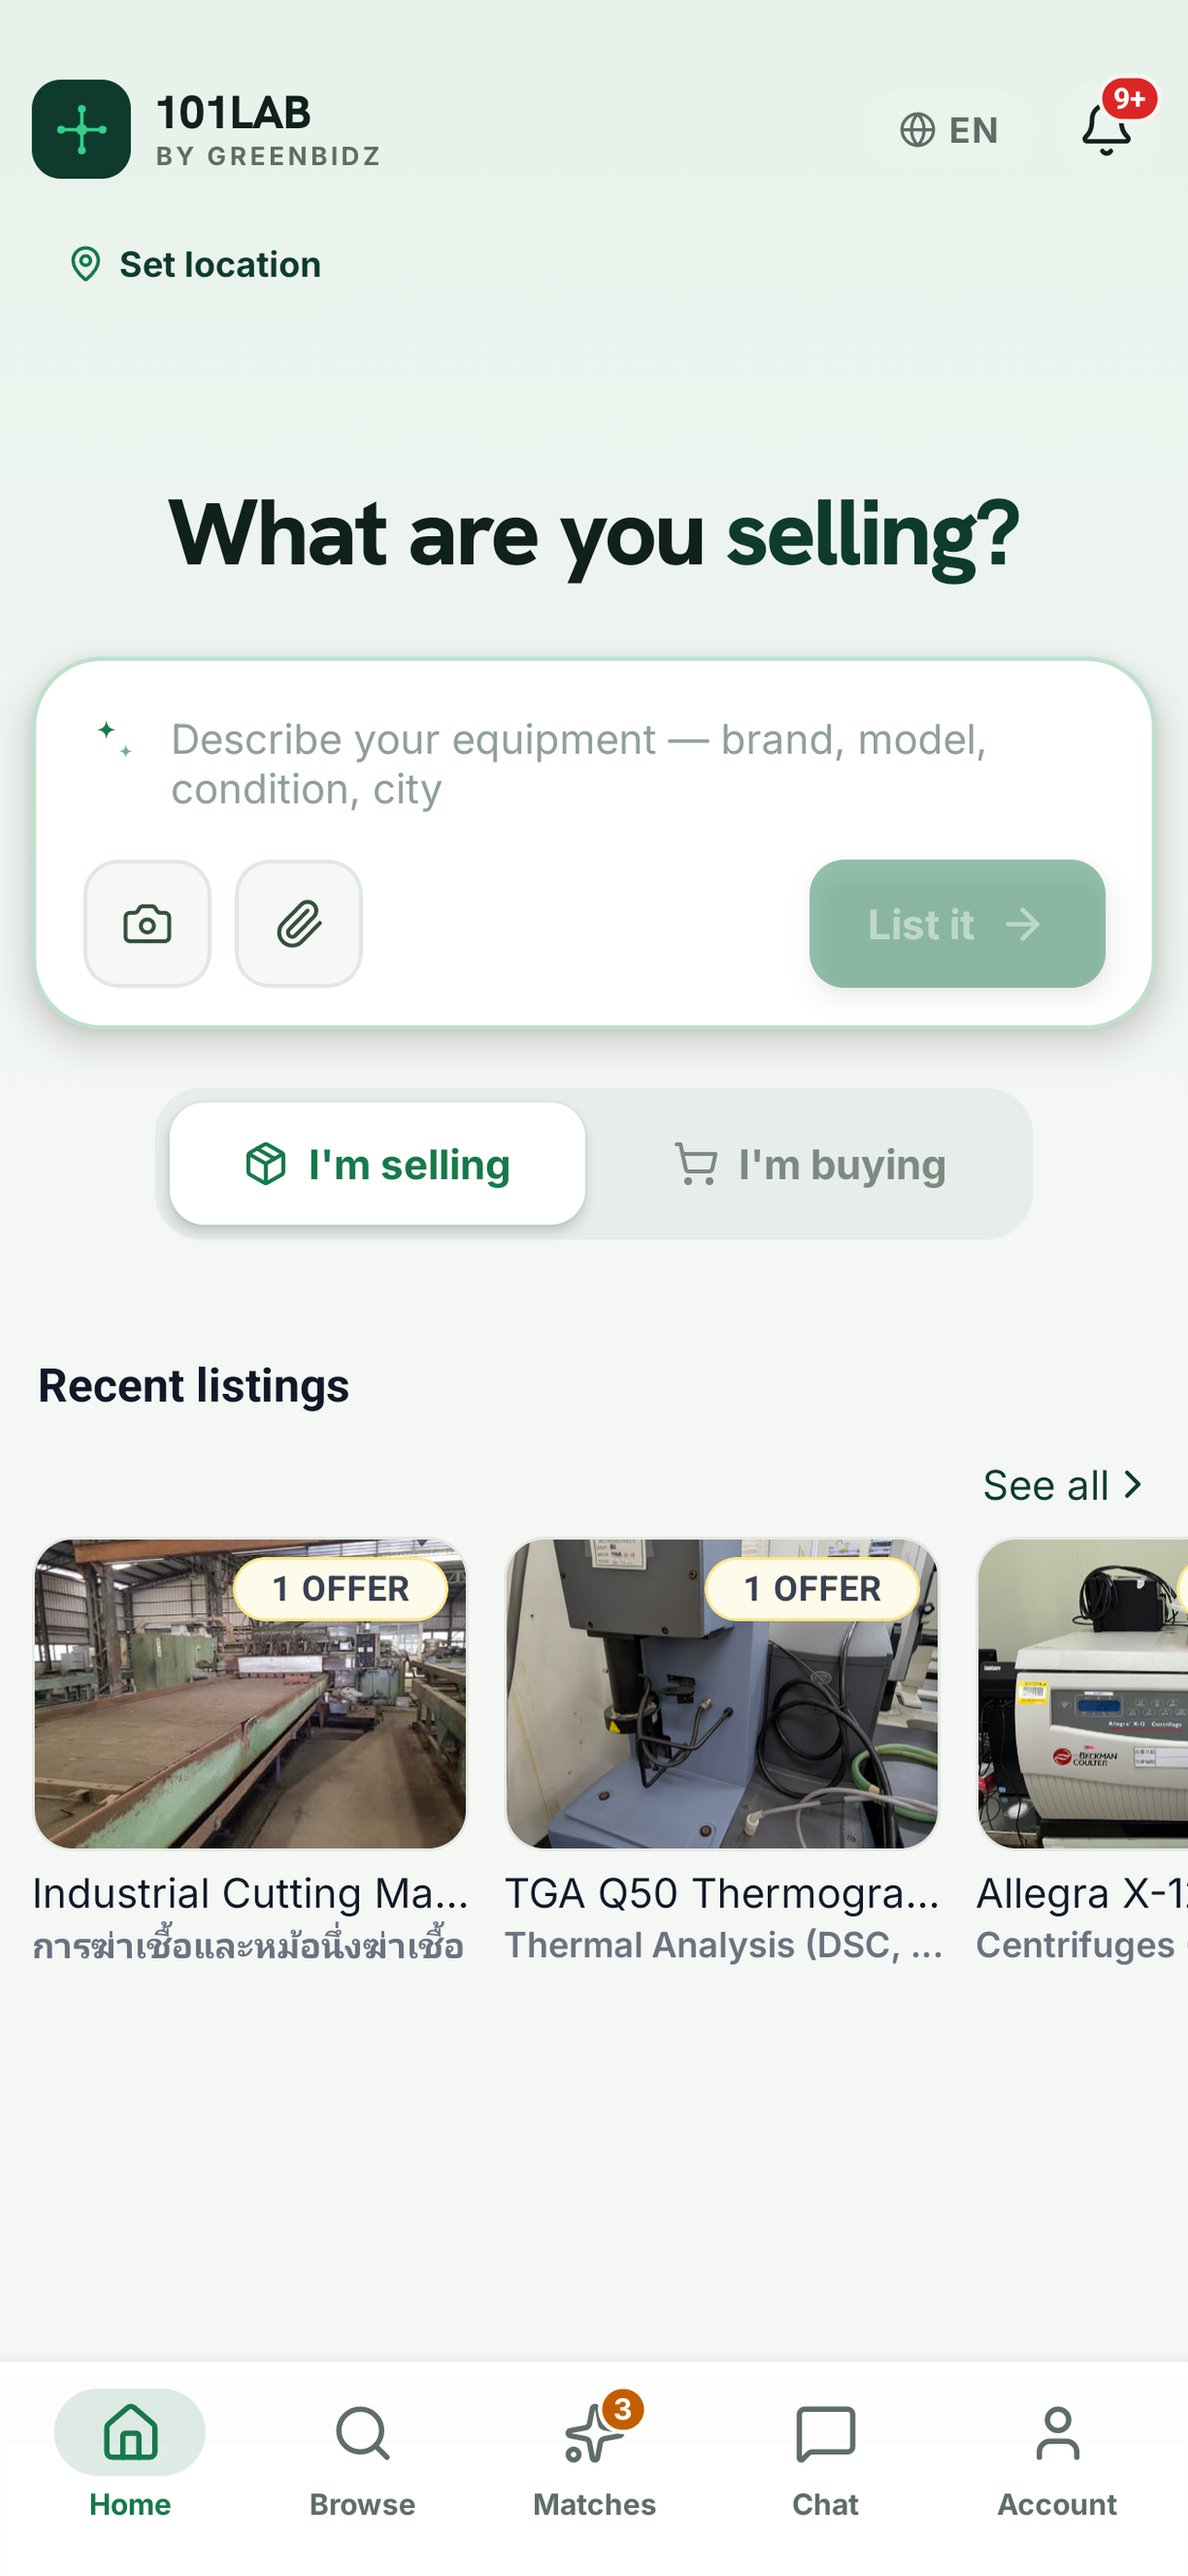
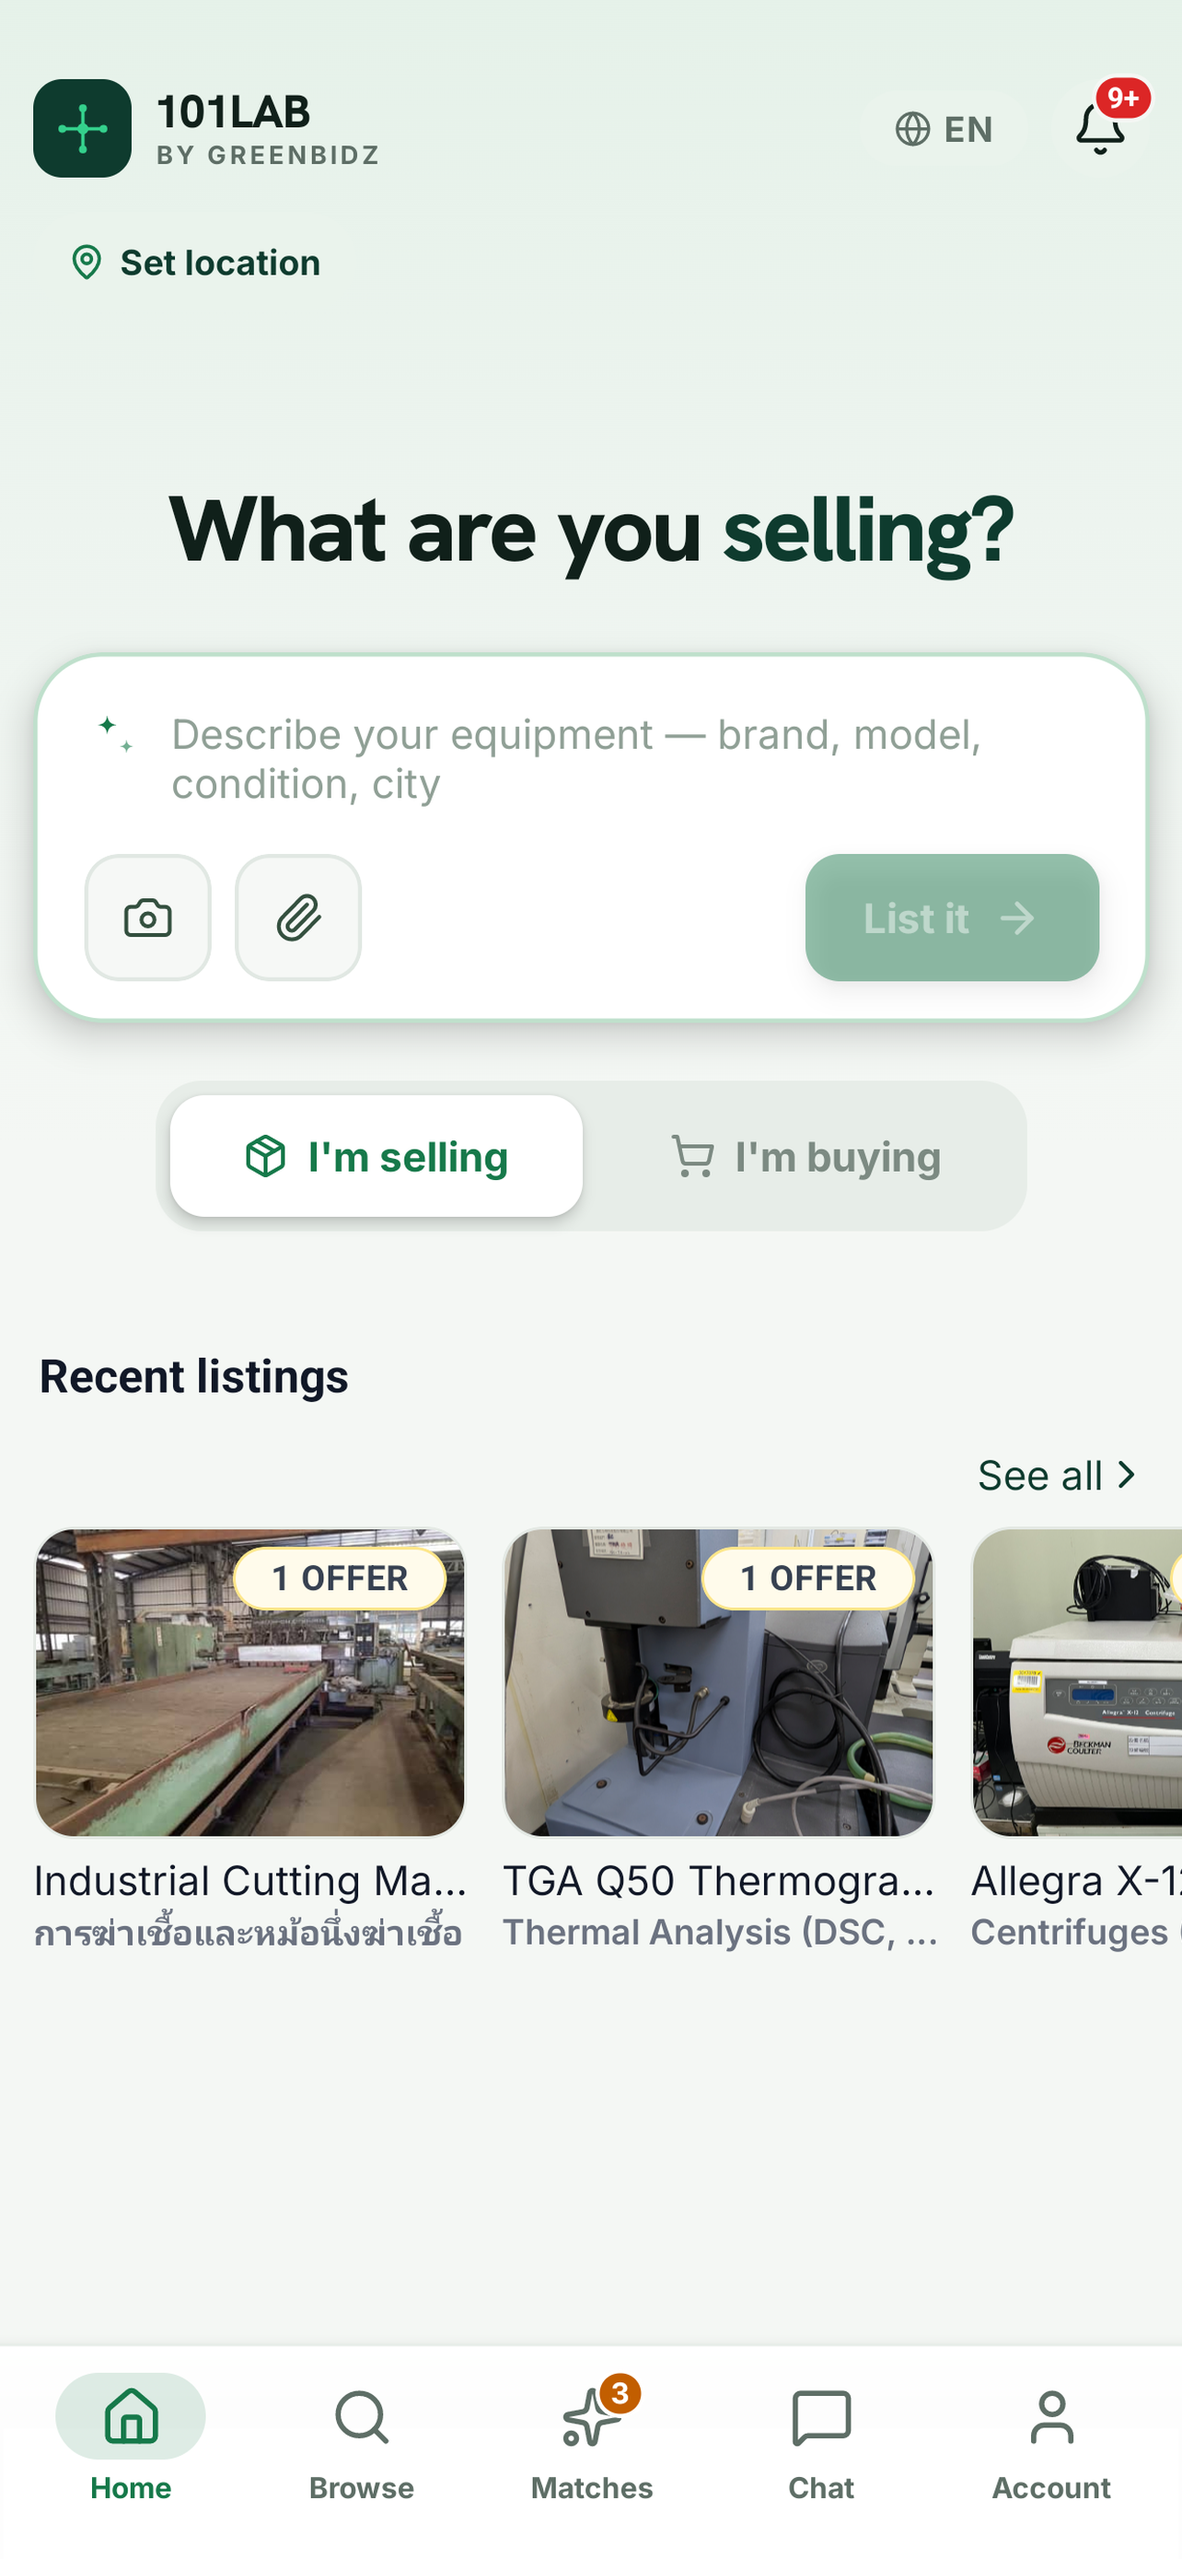
feat(store): upload screenshots, publish App Privacy, attach build 9
Driven through the App Store Connect UI with browser automation, each step read
back before moving on.

- Screenshots: all 4 uploaded (4 of 10, correct order, no errors).
  ⚠ Regenerated at 1284x2778, NOT 1290x2796. This app's ASC page exposes one
  iPhone slot labelled 6.5" Display accepting 1242x2688 / 2688x1242 / 1284x2778 /
  2778x1284; a 1290x2796 upload is rejected outright. ASC reuses the one set for
  all display sizes, so a single set suffices. The constant in
  make-ios-screenshots.py now carries that warning.
- App Privacy: PUBLISHED. 9 data types, each App Functionality + linked to
  identity + not used for tracking. Added Phone Number (Account collects and
  verifies one) and User ID (the app assigns account IDs and display names —
  Apple's definition; under-declaring is the real risk).
- Build 1.0.0 (9) attached and saved. The picker listed 9/8/7 all at 1.0.0, which
  confirms the earlier 1.0 -> 1.0.0 version rename is what made builds
  attachable at all.

Two automation notes for whoever repeats this:
- ASC controls are styled div/P with no role, so a11y-tree clicks time out.
  Click the <label>, or dispatch pointerdown/mousedown/mouseup/click on the
  wrapper div.
- The file chooser accepts exactly ONE upload per page load; reload between
  screenshots.

Remaining and deliberately left to a human: the age-rating questionnaire (ASC is
warning about new social-media questions due 2026-09-07 — the app has chat and
[…]

diff --git a/scripts/make-ios-screenshots.py b/scripts/make-ios-screenshots.py
@@ -26,7 +26,12 @@ import sys
 
 from PIL import Image
 
-TARGET_W, TARGET_H = 1290, 2796
+# 1284x2778 — what App Store Connect's iPhone slot actually accepts for this app
+# ("6.5" Display": 1242x2688, 2688x1242, 1284x2778 or 2778x1284). A 1290x2796
+# ("6.9"") upload is REJECTED with "The dimensions of one or more screenshots are
+# wrong", so do not "fix" this back to 1290x2796 without re-checking the live UI.
+# ASC states it reuses one set "for all display sizes and localizations".
+TARGET_W, TARGET_H = 1284, 2778
 CROP_TOP = 100      # Android status bar
 CROP_BOTTOM = 44    # gesture pill
 

diff --git a/Docs/APP_STORE_GO_LIVE.md b/Docs/APP_STORE_GO_LIVE.md
@@ -122,17 +122,21 @@ This is a read-only check — it creates nothing and changes nothing.
 
 ## Step 3 — Screenshots
 
-Required: **3 to 10** images, iPhone **6.9"**, portrait, **1290 × 2796** px. No iPad set is needed
-(the app doesn't support iPad).
+Required: **3 to 10** images, portrait. ⚠ **The size is 1284 × 2778, not 1290 × 2796.** This app's
+ASC page exposes a single iPhone slot labelled **6.5" Display**, accepting `1242 × 2688`,
+`2688 × 1242`, `1284 × 2778` or `2778 × 1284`. A 1290 × 2796 ("6.9"") upload is **rejected**:
+*"The dimensions of one or more screenshots are wrong."* ASC then reuses the one set "for all display
+sizes and localizations", so a single 1284 × 2778 set is enough. No iPad set is needed (the app
+doesn't support iPad).
 
 **4 are generated and committed** in [`assets/store/ios/`](../assets/store/ios/), all exactly
-1290 × 2796, RGB, no alpha:
+1284 × 2778, RGB, no alpha:
 
 - [x] `1-home.png` — "What are you selling?" + AI describe box + real Recent listings
 - [x] `2-browse.png` — marketplace, "2029 results open for bidding", real lots
 - [x] `3-matches.png` — My Wants with **92% MATCH** rings on real lab equipment
 - [x] `4-messages.png` — a seller thread with the delivered tick and quick-replies
-- [ ] Upload them in ASC → **GreenBidz → 1.0 Prepare for Submission → Previews and Screenshots**
+- [x] **Uploaded to ASC 2026-08-04** — all 4 present in order, `4 of 10 Screenshots`, no dimension error
 
 Regenerate with `python scripts/make-ios-screenshots.py <capture-dir>`.
 
@@ -146,7 +150,7 @@ adb shell wm density 480        # 480dpi = 3x, so the app lays out at 430x932 dp
 ```
 
 `policy_control immersive.full=*` no longer works on API 34, so the Android status bar and gesture
-pill are cropped off and the image is uniformly rescaled back to 1290 × 2796 (no stretching; ~3%
+pill are cropped off and the image is uniformly rescaled back to 1284 × 2778 (no stretching; ~3%
 centre crop horizontally).
 
 ⚠ The **content is genuine** — real listings, real match scores, captured while signed in as the
@@ -270,20 +274,31 @@ app. There are no digital goods, so no in-app purchases are used.
 
 ---
 
-## Step 6 — App Privacy questionnaire
+## Step 6 — App Privacy questionnaire ✅
 
-ASC → **App Privacy**. There is no analytics, ads or tracking SDK in the app, so:
+**Published 2026-08-04** ("Published a few seconds ago by Jam User"). Driven through the ASC UI via
+browser automation, then read back to verify every row before publishing.
 
-- [ ] **"Data is not used to track you"** — tracking: **No**
-- [ ] Declare each of these as **collected, linked to the user, purpose: App Functionality**:
-  - [ ] Email address
-  - [ ] Name / company
-  - [ ] Photos
-  - [ ] Other user content (listing text, messages, requests)
-  - [ ] Precise location — mark **optional** (user may decline; app still works)
-  - [ ] Device ID (push subscription)
-  - [ ] Search history
-- [ ] Third-party advertising: **No**
+**9 data types**, each *Used for App Functionality* · *Linked to the user's identity* · **not** used
+for tracking:
+
+- [x] Name
+- [x] Email Address
+- [x] Phone Number — added because Account collects and verifies one
+- [x] Precise Location
+- [x] Photos or Videos
+- [x] Other User Content
+- [x] Search History
+- [x] **User ID** — added beyond the original list: the app assigns account IDs and display names,
+      which is exactly Apple's definition. Under-declaring is the real rejection risk.
+- [x] Device ID
+- [x] Tracking: **No** everywhere → "Data is not used to track you". No analytics, ads or
+      attribution SDK exists in the app.
+
+**UI gotcha for anyone repeating this:** ASC's radios and "Set Up X" controls are styled `div`/`P`
+elements with no `role`, so accessibility-tree clicks time out. Clicking the `<label>` (or dispatching
+a full pointerdown→mousedown→mouseup→click sequence on the wrapper `div`) works. Each data type is a
+5-screen wizard: purpose → linked? → two tracking explainers → tracking?
 
 ---
 
@@ -306,12 +321,16 @@ That is a product/compliance decision, not a config tweak, so it was deliberatel
 `store.config.json` carries the pulled `advisory` block only as a record of ASC's current state.
 Answer the questionnaire honestly in the ASC UI.
 
-- [ ] Age rating: **4+** — only if the questionnaire above genuinely supports it
+- [x] Select build **1.0.0 (9)** — attached and saved 2026-08-04. The picker offered builds 9, 8 and 7,
+      all at version 1.0.0, confirming the `1.0` → `1.0.0` version rename made them attachable.
+- [x] Version release: **Manually release this version** (set via `metadata:push`)
+- [ ] **Age rating** — ⚠ ASC is showing a live banner: *"Update Your Age Ratings Responses about
+      Social Media — Respond to new questions about social media capabilities in the App Information
+      section of this app by September 7, 2026."* This is the same issue as the `messagingAndChat` /
+      `userGeneratedContent` flags above. **Requires a human decision** and is the last blocker.
 - [ ] Pricing: **Free** (or set your tier)
 - [ ] Availability: choose countries
-- [ ] Select build **1.0.0 (9)**
-- [ ] Version release: **Manually release this version** (so you control the go-live moment)
-- [ ] **Submit for Review**
+- [ ] **Submit for Review** — deliberately NOT automated. One-way door.
 
 ---
 
